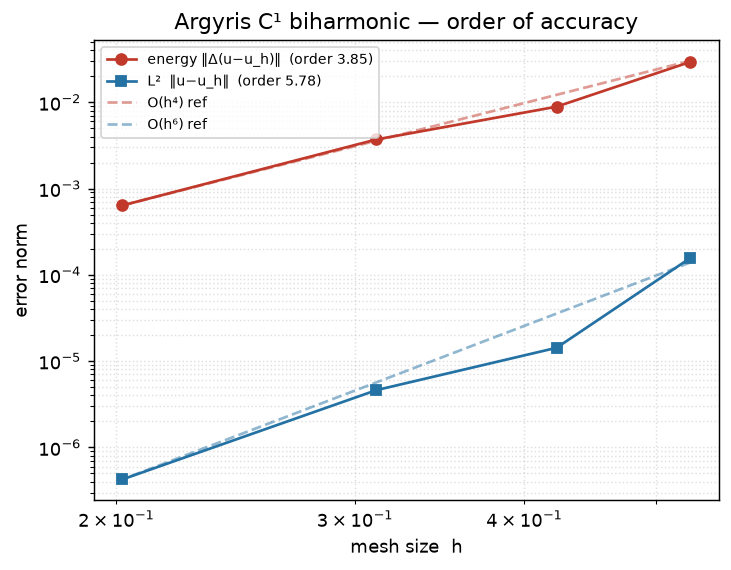
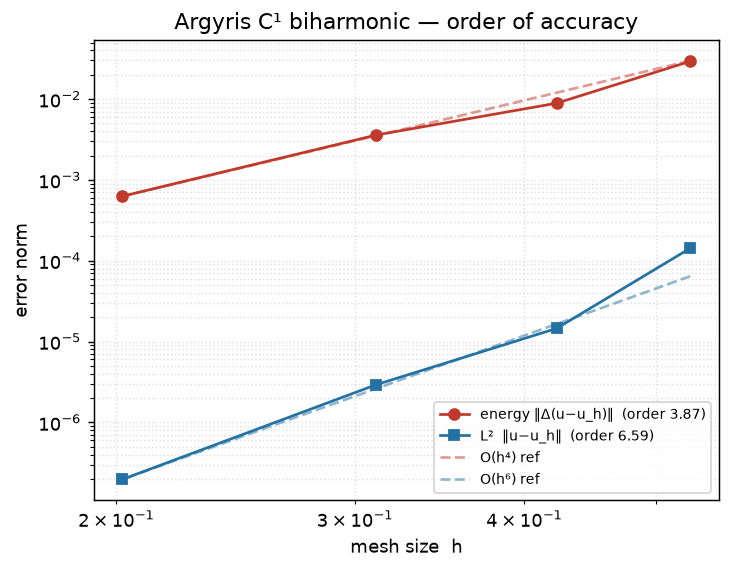
docs(fem): refresh docs/tutorials after the C¹ feature set (inverse, u_tt, clamped)
Update the stale assemble_fem_nonnodal docstring (now covers Hermite/Argyris, Dirichlet/IC, all solver modes, inverse); drop the 'forthcoming Argyris' wording; refresh the two hardcoded tutorial tables + figure whose numbers shifted when u(region)-g became the proper clamped BC (convergence L² order 5.78->6.6; conforming-vs-mixed accuracy ratio up to 872x).

diff --git a/jno/utils/solver/fem_nonnodal.py b/jno/utils/solver/fem_nonnodal.py
@@ -94,17 +94,28 @@ def assemble_mixed_poisson_rt(
 def assemble_fem_nonnodal(domain, volume_terms, boundary_terms, dirichlet_raw, ic_residuals, *, flux_bcs=(), quad_degree=4):
     """Native push-forward assembler for non-nodal (RT, ...) fields, driven by the weak-form DSL.
 
-    The n-D analogue of :func:`fem_1d.assemble_fem_1d_multifield`: it lowers each weak term, builds a
-    per-cell ``local`` carrying the field's *physical* (push-forward) shape data, and evaluates the term
-    through the shared integrand evaluator (:func:`fem_utils._eval_integrand`, which now has
-    space-guarded RT branches). Returns ``(A, b)`` for the linear system (matrices-only contract).
+    It lowers each weak term, builds a per-cell ``local`` carrying the field's *physical* (push-forward)
+    shape data, and evaluates it through the shared integrand evaluator (:func:`fem_utils._eval_integrand`).
+    Returns ``(op, mode, offsets)``: ``mode`` is ``"linear"`` (``op = (A, b)`` or a parametric
+    :class:`FemLinearSystem`), ``"nonlinear"`` (a :class:`FemResidualOperator`) or ``"transient"`` (a
+    :class:`SemidiscreteTimeBlock`).
 
-    Scope: RT (H(div)) and N1E (H(curl)) edge-DOF fields plus P0 (cell DOFs) -- the H(div)/H(curl) mass /
-    L²-projection, the RT-P0 mixed-Poisson saddle system, the essential normal-flux BC ``u·n = g``
-    (``flux_bcs``, pinned via :func:`_apply_flux_bcs`) and the natural pressure BC ``p = p_D``
-    (``boundary_terms``, via :func:`_apply_natural_boundary_terms`). RT and N1E share the edge topology and
-    DOF map; they differ only in the push-forward (contravariant vs covariant). Dirichlet/IC are not wired;
-    the H(curl) curl-curl operator and the tangential BC ``u·t = g`` come next.
+    Families (``fem_symbols(space=...)``):
+
+    * **Edge DOFs** -- RT (H(div)) and N1E (H(curl)), plus P0 (cell DOFs): the H(div)/H(curl) mass /
+      L²-projection, the RT-P0 mixed-Poisson saddle system, the essential normal-flux BC ``u·n = g``
+      (``flux_bcs``), and the natural pressure BC ``p = p_D``. (The H(curl) curl-curl operator and the
+      tangential BC ``u·t = g`` are still to come.)
+    * **Vertex DOFs** -- Hermite (C⁰, value+∇) and **Argyris (C¹ conforming, for the biharmonic)**: the
+      per-cell ``M(cell)`` DOF-transform path (:func:`fem_elements.hermite_pushforward` /
+      :func:`argyris_pushforward`). Hermite takes a value-Dirichlet; Argyris takes the **proper clamped BC**
+      ``u=g, ∂u/∂n=∂g/∂n`` with free boundary curvature (:func:`_argyris_dirichlet_pins`).
+
+    All families share the solver modes: steady linear/nonlinear, first- and (single-field) **second-order**
+    (``u_tt`` -> augmented ``[u, v]`` block) transient with IC L²-projection, and the differentiable
+    **inverse** path -- a runtime scalar *or* P1 field parameter ``k(x)`` in a volume term is threaded so
+    ``crux.solve`` recovers it (steady and transient). A parameter in a boundary term is rejected (the
+    natural-BC load is non-differentiable).
     """
     from ...trace import FemResidualOperator
     from .fem_1d import _apply_dirichlet_rows, _apply_dirichlet_symmetric, _integrate_term

diff --git a/docs/tutorials/08-fem-and-varpinns/biharmonic-argyris-convergence-2d.md b/docs/tutorials/08-fem-and-varpinns/biharmonic-argyris-convergence-2d.md
@@ -48,17 +48,17 @@ a hand-built field. Solving on a sequence of unstructured meshes recovers exactl
 
 ```
          h    dofs       L2 err   rate   energy err   rate
-    0.5303      97    1.563e-04     --    2.929e-02     --
-    0.4226     165    1.427e-05  10.55    8.880e-03   5.26
-    0.3112     251    4.611e-06   3.69    3.704e-03   2.86
-    0.2021     495    4.255e-07   5.52    6.369e-04   4.08
+    0.5303      97    1.425e-04     --    2.926e-02     --
+    0.4226     165    1.451e-05  10.07    8.879e-03   5.25
+    0.3112     251    2.931e-06   5.23    3.590e-03   2.96
+    0.2021     495    1.967e-07   6.26    6.265e-04   4.04
 
-  least-squares order:  L2 ≈ 5.78  (theory 6)   energy ≈ 3.85  (theory 4)
+  least-squares order:  L2 ≈ 6.59  (theory 6)   energy ≈ 3.87  (theory 4)
 ```
 
 ![Argyris C¹ biharmonic convergence: measured L² and energy errors against the O(h⁶) and O(h⁴) reference slopes.](/jNO/assets/biharmonic_argyris_convergence_2d.png)
 
-The measured orders (energy $\approx 3.85$, $L^2 \approx 5.78$) sit right on the optimal $O(h^4)$ / $O(h^6)$
+The measured orders (energy $\approx 3.87$, $L^2 \approx 6.6$) sit right on the optimal $O(h^4)$ / $O(h^6)$
 theory — the high-order convergence a $C^0$ Hessian assembly **cannot** deliver. The same element composes
 with nonlinear ($\Delta^2 u + u^3 = f$) and transient (the dissipative biharmonic heat flow) solves; see
 `tests/test_fem_argyris.py`.

diff --git a/docs/fem.md b/docs/fem.md
@@ -129,10 +129,9 @@ problems whose natural space is *not* H¹. Pick one with the `space=` knob on `f
 > **Hermite** is the first element with a per-cell **DOF-mixing** transform `M(cell)` (its global
 > derivative DOFs are the physical gradient `∇u` at the vertices). It is **C⁰** (not C¹), so it is *not*
 > a conforming biharmonic element — it de-risks the `M(cell)` / vertex-derivative-DOF machinery that the
-> forthcoming C¹ Bell/Argyris elements reuse. A **value-Dirichlet** `u(region) - g` pins boundary-vertex
+> **C¹ Argyris** element (below) reuses. A **value-Dirichlet** `u(region) - g` pins boundary-vertex
 > value DOFs (derivatives free); it composes with the steady, transient, and nonlinear `fem.solve()` paths
-> (see `tests/test_fem_hermite.py` for Poisson / heat / reaction-diffusion). A *clamped* BC (also pinning
-> the gradient DOFs to `∇g`, needed for optimal rates and the C¹ elements) is a follow-on.
+> (see `tests/test_fem_hermite.py` for Poisson / heat / reaction-diffusion).
 
 > **Argyris** is the **C¹-conforming** quintic triangle (21 DOF: value, gradient and Hessian at each
 > vertex; the normal derivative at each edge midpoint) — the element for **4th-order PDEs**. Across a shared

diff --git a/docs/tutorials/08-fem-and-varpinns/biharmonic-conforming-vs-mixed-2d.md b/docs/tutorials/08-fem-and-varpinns/biharmonic-conforming-vs-mixed-2d.md
@@ -27,9 +27,9 @@ simply supported), the displacement nodal-$L^2$ error at *comparable cost* is:
 
 ```
        h | Argyris dofs      L2 err | mixed dofs      L2 err | Argyris/mixed
-   0.420 |          165   8.828e-06 |        130   1.574e-03 |         178×
-   0.300 |          251   3.419e-06 |        202   7.646e-04 |         224×
-   0.210 |          373   9.248e-07 |        306   3.255e-04 |         352×
+   0.420 |          165   9.140e-06 |        130   1.574e-03 |         172×
+   0.300 |          251   1.992e-06 |        202   7.646e-04 |         384×
+   0.210 |          373   3.731e-07 |        306   3.255e-04 |         872×
 ```
 
 For essentially the same number of degrees of freedom, the conforming $C^1$ element is **two to three
